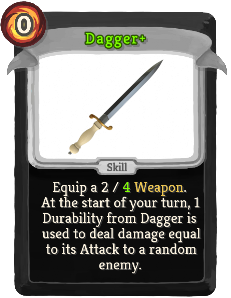
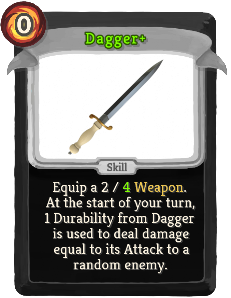
v.1.5.8 - Exported.

Changed region(s): [[0.1818, 0.6342, 0.8788, 0.9362]]

diff --git a/exported/index.html b/exported/index.html
@@ -94,8 +94,8 @@
         <td>Skill</td>
         <td>0</td>
         <td>Equip a 2 / 3(4) Weapon.
-            At the start of your turn, 1 Durability from Dagger is used to deal damage equal to its Attack to a random
-            enemy.
+            At the start of your turn,
+            1 Durability from Dagger is used to deal damage equal to its Attack to a random enemy.
         </td>
     </tr>
 
@@ -268,6 +268,19 @@
         <td>Gain 3(4) Resistance.
             At the start of your next turn, lose 3(4) Resistance.
             Exhaust.
+        </td>
+    </tr>
+
+    <tr>
+        <td>Wise Defend</td>
+        <td><a href="card-images/WiseDefend.png"><img src="small-card-images/WiseDefend.png" height="298"></a></td>
+        <td><a href="card-images/WiseDefendPlus.png"><img src="small-card-images/WiseDefendPlus.png" height="298"></a>
+        </td>
+        <td>Common</td>
+        <td>Skill</td>
+        <td>1</td>
+        <td>Gain 7(9) Block.
+            Draw 1(2) card(s).
         </td>
     </tr>
 
@@ -696,19 +709,6 @@
         <td>Gain 1 Intangible.
             At the start of the turn on which you are no longer Intangible, you take 12(8) damage.
             Exhaust.
-        </td>
-    </tr>
-
-    <tr>
-        <td>Wise Defend</td>
-        <td><a href="card-images/WiseDefend.png"><img src="small-card-images/WiseDefend.png" height="298"></a></td>
-        <td><a href="card-images/WiseDefendPlus.png"><img src="small-card-images/WiseDefendPlus.png" height="298"></a>
-        </td>
-        <td>Uncommon</td>
-        <td>Skill</td>
-        <td>1</td>
-        <td>Gain 7(9) Block.
-            Draw 1(2) card(s).
         </td>
     </tr>
 

diff --git a/exported/cards.html b/exported/cards.html
@@ -93,8 +93,8 @@
     <td>Skill</td>
     <td>0</td>
     <td>Equip a 2 / 3(4) Weapon.
-        At the start of your turn, 1 Durability from Dagger is used to deal damage equal to its Attack to a random
-        enemy.
+        At the start of your turn,
+        1 Durability from Dagger is used to deal damage equal to its Attack to a random enemy.
     </td>
   </tr>
 
@@ -267,6 +267,19 @@
         <td>Gain 3(4) Resistance.
             At the start of your next turn, lose 3(4) Resistance.
             Exhaust.
+        </td>
+    </tr>
+
+    <tr>
+        <td>Wise Defend</td>
+        <td><a href="card-images/WiseDefend.png"><img src="small-card-images/WiseDefend.png" height="298"></a></td>
+        <td><a href="card-images/WiseDefendPlus.png"><img src="small-card-images/WiseDefendPlus.png" height="298"></a>
+        </td>
+        <td>Common</td>
+        <td>Skill</td>
+        <td>1</td>
+        <td>Gain 7(9) Block.
+            Draw 1(2) card(s).
         </td>
   </tr>
 
@@ -695,19 +708,6 @@
     <td>Gain 1 Intangible.
         At the start of the turn on which you are no longer Intangible, you take 12(8) damage.
         Exhaust.
-    </td>
-  </tr>
-
-    <tr>
-    <td>Wise Defend</td>
-        <td><a href="card-images/WiseDefend.png"><img src="small-card-images/WiseDefend.png" height="298"></a></td>
-        <td><a href="card-images/WiseDefendPlus.png"><img src="small-card-images/WiseDefendPlus.png" height="298"></a>
-        </td>
-    <td>Uncommon</td>
-    <td>Skill</td>
-    <td>1</td>
-    <td>Gain 7(9) Block.
-        Draw 1(2) card(s).
     </td>
   </tr>
 

diff --git a/exported/cards.md b/exported/cards.md
@@ -21,6 +21,7 @@
 | Sword Dance | ![](small-card-images/SwordDance.png) | ![](small-card-images/SwordDancePlus.png) | Common | Skill | 1 | This turn, your next 2(3) Attacks use all equipped Weapons. |
 | Tactical Retreat | ![](small-card-images/TacticalRetreat.png) | ![](small-card-images/TacticalRetreatPlus.png) | Common | Skill | 1 | Gain 8(11) Block. Draw 1 more card next turn. |
 | Toast | ![](small-card-images/Toast.png) | ![](small-card-images/ToastPlus.png) | Common | Skill | 0 | Gain 3(4) Resistance. At the start of your next turn, lose 3(4) Resistance. Exhaust. |
+| Wise Defend | ![](small-card-images/WiseDefend.png) | ![](small-card-images/WiseDefendPlus.png) | Common | Skill | 1 | Gain 7(9) Block. Draw 1(2) card(s). |
 | Agile Strike | ![](small-card-images/AgileStrike.png) | ![](small-card-images/AgileStrikePlus.png) | Uncommon | Attack | 1 | Deal 9(13) damage. If you have equipped a Weapon this turn, reduce cost of this card to 0. |
 | Anchor | ![](small-card-images/Anchor.png) | ![](small-card-images/AnchorPlus.png) | Uncommon | Skill | 0 | Innate. Gain 10 Block. (Draw a card.)  Exhaust. |
 | Armor Up | ![](small-card-images/ArmorUp.png) | ![](small-card-images/ArmorUpPlus.png) | Uncommon | Skill | 0 | This turn, whenever you attack with a Weapon, gain 4(6) Block. |
@@ -55,7 +56,6 @@
 | Terror Of The Seas | ![](small-card-images/TerrorOfTheSeas.png) | ![](small-card-images/TerrorOfTheSeasPlus.png) | Uncommon | Skill | 1 | Apply 3(5) Vulnerable to ALL enemies. Exhaust. |
 | Upgrade | ![](small-card-images/Upgrade.png) | ![](small-card-images/UpgradePlus.png) | Uncommon | Skill | 1 | Give all your equipped Weapons + 1(2) / + 1(2). |
 | Vengeful Spirit | ![](small-card-images/VengefulSpirit.png) | ![](small-card-images/VengefulSpiritPlus.png) | Uncommon | Skill | 1 | Gain 1 Intangible. At the start of the turn on which you are no longer Intangible, you take 12(8) damage. Exhaust. |
-| Wise Defend | ![](small-card-images/WiseDefend.png) | ![](small-card-images/WiseDefendPlus.png) | Uncommon | Skill | 1 | Gain 7(9) Block. Draw 1(2) card(s). |
 | Wooden Leg | ![](small-card-images/WoodenLeg.png) | ![](small-card-images/WoodenLegPlus.png) | Uncommon | Power | 1 | Lose 2 Dexterity. Gain 4(5) Strength. |
 | Boost Morale | ![](small-card-images/BoostMorale.png) | ![](small-card-images/BoostMoralePlus.png) | Rare | Skill | 0 | Draw 2(3) cards. Gain [R] ([R]). Exhaust. |
 | Bounty Hunter | ![](small-card-images/BountyHunter.png) | ![](small-card-images/BountyHunterPlus.png) | Rare | Attack | 1 | Deal 16(20) damage. If this kills a non-minion enemy, gain 16(20) Gold. Exhaust. |

diff --git a/exported/index.md b/exported/index.md
@@ -24,6 +24,7 @@
 | Sword Dance | ![](small-card-images/SwordDance.png) | ![](small-card-images/SwordDancePlus.png) | Common | Skill | 1 | This turn, your next 2(3) Attacks use all equipped Weapons. |
 | Tactical Retreat | ![](small-card-images/TacticalRetreat.png) | ![](small-card-images/TacticalRetreatPlus.png) | Common | Skill | 1 | Gain 8(11) Block. Draw 1 more card next turn. |
 | Toast | ![](small-card-images/Toast.png) | ![](small-card-images/ToastPlus.png) | Common | Skill | 0 | Gain 3(4) Resistance. At the start of your next turn, lose 3(4) Resistance. Exhaust. |
+| Wise Defend | ![](small-card-images/WiseDefend.png) | ![](small-card-images/WiseDefendPlus.png) | Common | Skill | 1 | Gain 7(9) Block. Draw 1(2) card(s). |
 | Agile Strike | ![](small-card-images/AgileStrike.png) | ![](small-card-images/AgileStrikePlus.png) | Uncommon | Attack | 1 | Deal 9(13) damage. If you have equipped a Weapon this turn, reduce cost of this card to 0. |
 | Anchor | ![](small-card-images/Anchor.png) | ![](small-card-images/AnchorPlus.png) | Uncommon | Skill | 0 | Innate. Gain 10 Block. (Draw a card.)  Exhaust. |
 | Armor Up | ![](small-card-images/ArmorUp.png) | ![](small-card-images/ArmorUpPlus.png) | Uncommon | Skill | 0 | This turn, whenever you attack with a Weapon, gain 4(6) Block. |
@@ -58,7 +59,6 @@
 | Terror Of The Seas | ![](small-card-images/TerrorOfTheSeas.png) | ![](small-card-images/TerrorOfTheSeasPlus.png) | Uncommon | Skill | 1 | Apply 3(5) Vulnerable to ALL enemies. Exhaust. |
 | Upgrade | ![](small-card-images/Upgrade.png) | ![](small-card-images/UpgradePlus.png) | Uncommon | Skill | 1 | Give all your equipped Weapons + 1(2) / + 1(2). |
 | Vengeful Spirit | ![](small-card-images/VengefulSpirit.png) | ![](small-card-images/VengefulSpiritPlus.png) | Uncommon | Skill | 1 | Gain 1 Intangible. At the start of the turn on which you are no longer Intangible, you take 12(8) damage. Exhaust. |
-| Wise Defend | ![](small-card-images/WiseDefend.png) | ![](small-card-images/WiseDefendPlus.png) | Uncommon | Skill | 1 | Gain 7(9) Block. Draw 1(2) card(s). |
 | Wooden Leg | ![](small-card-images/WoodenLeg.png) | ![](small-card-images/WoodenLegPlus.png) | Uncommon | Power | 1 | Lose 2 Dexterity. Gain 4(5) Strength. |
 | Boost Morale | ![](small-card-images/BoostMorale.png) | ![](small-card-images/BoostMoralePlus.png) | Rare | Skill | 0 | Draw 2(3) cards. Gain [R] ([R]). Exhaust. |
 | Bounty Hunter | ![](small-card-images/BountyHunter.png) | ![](small-card-images/BountyHunterPlus.png) | Rare | Attack | 1 | Deal 16(20) damage. If this kills a non-minion enemy, gain 16(20) Gold. Exhaust. |
